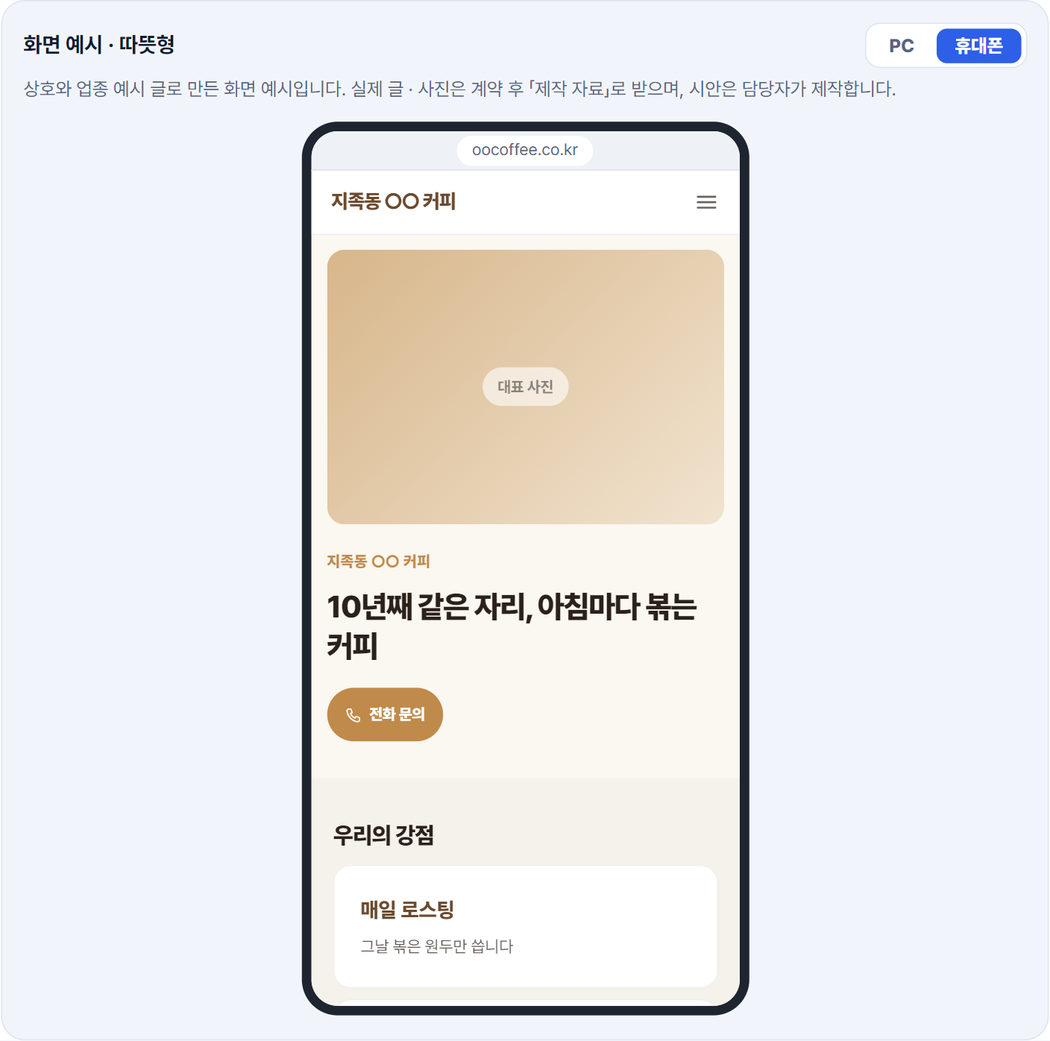
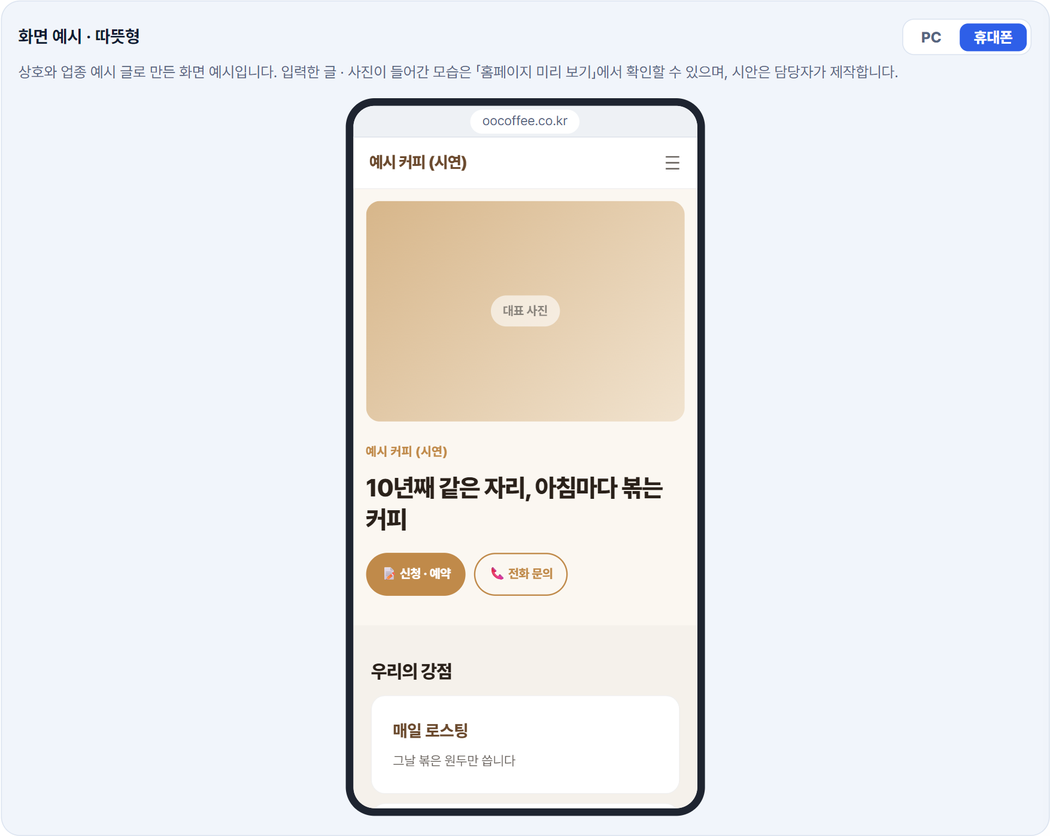
/web/ — 새 신청서(기능만 고르고 디자인 · 도메인은 제작 자료)에 맞춰 문구 · 캡처 (10/18)
- 신청부터 관리까지 01: 「기능 · 디자인 · 도메인을 고르면」 → 「기능을 고르면」
- 04: 제작 자료로 글 · 연락 정보 · 디자인 · 로고 · 사진과 홈페이지 주소 · 오픈 시기, 더 필요한 내용은 담당자가 같은 화면에서 요청
- 가격 ③ 도메인: 「신청 시 선택」 → 「계약 후 「제작 자료」에서 선택」
- 기준일 「자료를 모두 받은 날(담당자가 요청한 자료 포함)부터」 — 05 · 가격 ③ · FAQ Q3 (제작 기간 그래프 짧은 표시는 그대로)
- #easy 오른쪽 캡처 alt 「제작 자료에서 고른 분위기로」, 신청서 문구 통일 TODO 주석 지움
- 캡처 2장 — 신청서 · 제작 자료 미리보기 파일(시연용 「예시 커피 (시연)」, 실제 고객 정보 없음, 10/17 20:58 판)에서
  apply-quote 1295×728 (요금 방식 · 12개월 약정 · 예상 금액) · apply-preview 1050×836 (따뜻형 · 휴대폰). width/height · 칸 바탕색 맞춤, README 갱신

diff --git a/web/index.html b/web/index.html
@@ -1045,11 +1045,11 @@ main{overflow-x:clip}
     <!-- 화면 캡처 2장 (2026-10-15) — 그림 전체가 보이게(object-fit:contain), 남는 곳은 캡처의 바탕색으로 채움 -->
     <div class="shots">
       <figure class="shot glass rv">
-        <div class="slot solid" data-slot style="--shot-bg:#ECF0F6;--shot-pos:center top"><img src="img/apply-quote.png" alt="신청서에서 요금 방식을 고르면 예상 금액이 바로 계산되는 화면" width="1295" height="663" loading="lazy" decoding="async"></div>
+        <div class="slot solid" data-slot style="--shot-bg:#FDFDFE;--shot-pos:center top"><img src="img/apply-quote.png" alt="신청서에서 요금 방식을 고르면 예상 금액이 바로 계산되는 화면" width="1295" height="728" loading="lazy" decoding="async"></div>
         <figcaption>신청서 · 예상 금액</figcaption>
       </figure>
       <figure class="shot glass rv">
-        <div class="slot solid" data-slot style="--shot-bg:#F1F5FB"><img src="img/apply-preview.png" alt="신청서에서 고른 분위기로 홈페이지 화면 예시를 미리 보는 화면" width="1050" height="1041" loading="lazy" decoding="async"></div>
+        <div class="slot solid" data-slot style="--shot-bg:#F1F5FB"><img src="img/apply-preview.png" alt="제작 자료에서 고른 분위기로 홈페이지 화면 예시를 미리 보는 화면" width="1050" height="836" loading="lazy" decoding="async"></div>
         <figcaption>제작 자료 · 홈페이지 미리 보기</figcaption>
       </figure>
     </div>
@@ -1114,10 +1114,9 @@ main{overflow-x:clip}
     <h3 class="ph3 rv">③ <b>결제 · 계약 안내</b></h3>
     <div class="pinfo rv">
       <p>모든 금액은 부가세 포함입니다. 계약 시에는 제작비만 청구하고, 월 관리비는 오픈일부터 매월 CMS 자동이체로 청구합니다. 약정 기간도 오픈일부터 산정합니다.</p>
-      <!-- TODO: 신청서 문구 통일 남음 — 정가 해지 「다음 납부일 7일 전까지 알림」은 사이트 쪽만 맞춤(2026-10-16). /apply/ 의 같은 문구는 아직 -->
       <p>약정은 6개월부터이며, 정가는 최소 이용 기간이 3개월입니다. 정가 3개월이나 약정 기간 중에 해지하시면 위약금이 있습니다. 자세한 기준은 제작 · 관리 계약서에 따릅니다. 정가는 3개월이 지나면 언제든 해지하실 수 있습니다. 해지를 원하시면 다음 납부일 7일 전까지 알려 주십시오. 해지하면 홈페이지를 닫습니다. 유료 도메인은 고객 명의라 해지 후에도 고객 소유이며, 무료 주소는 사라집니다.</p>
-      <p>모든 홈페이지에 모바일 화면 대응과 네이버 · 구글 검색 등록이 포함됩니다. 시안 1개와 제작 중 수정 5회를 제공합니다. 기본 홈페이지는 자료를 모두 받은 날부터 영업일 3일 안에 완성본을 전달하며, 추가 기능이 있으면 견적서에 일정을 적어 드립니다. 환불 기준은 견적서와 계약서에 명시합니다.</p>
-      <p>유료 도메인은 고객 부담이며, 비용은 등록 회사와 주소 종류에 따라 다릅니다(연 1~2만원을 넘을 수 있습니다). 사용 여부는 신청 시 선택하실 수 있으며, 도메인은 고객 소유가 됩니다. 무료 주소는 비용이 없지만 해지하면 주소가 사라집니다.</p>
+      <p>모든 홈페이지에 모바일 화면 대응과 네이버 · 구글 검색 등록이 포함됩니다. 시안 1개와 제작 중 수정 5회를 제공합니다. 기본 홈페이지는 자료를 모두 받은 날(담당자가 요청한 자료 포함)부터 영업일 3일 안에 완성본을 전달하며, 추가 기능이 있으면 견적서에 일정을 적어 드립니다. 환불 기준은 견적서와 계약서에 명시합니다.</p>
+      <p>유료 도메인은 고객 부담이며, 비용은 등록 회사와 주소 종류에 따라 다릅니다(연 1~2만원을 넘을 수 있습니다). 사용 여부는 계약 후 「제작 자료」에서 선택하실 수 있으며, 도메인은 고객 소유가 됩니다. 무료 주소는 비용이 없지만 해지하면 주소가 사라집니다.</p>
     </div>
     <p class="plinks rv">
       <a class="btn btn-g" href="/payment/">결제 시점과 환불 기준 보기</a>
@@ -1182,11 +1181,11 @@ main{overflow-x:clip}
       <h2 class="ttl" id="process-h"><span class="l">신청부터</span> <span class="b"><span class="ico-end">관리까지<img class="sec-ico" src="img/icon-clock.png" alt="" width="320" height="289" loading="lazy" decoding="async"></span></span></h2>
     </div>
     <ol class="steps">
-      <li class="step rv"><span class="no">01</span><h3>신청서 작성</h3><p>기능 · 디자인 · 도메인을 고르면 예상 금액이 자동으로 계산됩니다.</p></li>
+      <li class="step rv"><span class="no">01</span><h3>신청서 작성</h3><p>기능을 고르면 예상 금액이 자동으로 계산됩니다.</p></li>
       <li class="step rv"><span class="no">02</span><h3>연락 · 견적</h3><p>담당자 배정 후 1~2영업일 안에 연락하고 견적서를 보냅니다. 최종 금액은 견적서로 확정합니다.</p></li>
       <li class="step rv"><span class="no">03</span><h3>계약 · 입금</h3><p>계약서에 서명하고 제작비를 입금합니다.</p></li>
-      <li class="step rv"><span class="no">04</span><h3>제작 자료 제출</h3><p>「제작 자료」 링크로 글 · 연락 정보 · 로고 · 사진을 계약 · 입금 후 1주 안에 보냅니다. 입력한 글이 들어간 화면을 미리 보며 작성할 수 있습니다.</p></li>
-      <li class="step rv"><span class="no">05</span><h3>제작</h3><p>기본 홈페이지는 자료를 모두 받은 날부터 영업일 3일 안에 완성본을 전달합니다. 추가 기능이 있으면 견적서의 일정을 따릅니다.</p></li>
+      <li class="step rv"><span class="no">04</span><h3>제작 자료 제출</h3><p>「제작 자료」 링크로 글 · 연락 정보 · 디자인 · 로고 · 사진과 홈페이지 주소 · 오픈 시기를 계약 · 입금 후 1주 안에 보냅니다. 입력한 글이 들어간 화면을 미리 보며 쓸 수 있고, 더 필요한 내용은 담당자가 같은 화면에서 요청합니다.</p></li>
+      <li class="step rv"><span class="no">05</span><h3>제작</h3><p>기본 홈페이지는 자료를 모두 받은 날(담당자가 요청한 자료 포함)부터 영업일 3일 안에 완성본을 전달합니다. 추가 기능이 있으면 견적서의 일정을 따릅니다.</p></li>
       <li class="step rv"><span class="no">06</span><h3>수정 · 오픈</h3><p>완성본을 보시고 수정 5회 안에서 다듬은 뒤 오픈합니다.</p></li>
       <li class="step rv"><span class="no">07</span><h3>매월 관리</h3><p>오픈일부터 월 관리비가 CMS 자동이체로 청구되고, 작은 수정 · 백업 · 장애 대응이 이어집니다.</p></li>
     </ol>
@@ -1205,7 +1204,7 @@ main{overflow-x:clip}
       <details class="rv"><summary><span class="q">Q2</span>상담과 견적에도 비용이 드나요?<span class="pm" aria-hidden="true"></span></summary>
         <p class="a">상담과 견적은 무료입니다. 최종 금액은 견적서로 확정합니다.</p></details>
       <details class="rv"><summary><span class="q">Q3</span>언제 받아볼 수 있나요?<span class="pm" aria-hidden="true"></span></summary>
-        <p class="a">기본 홈페이지는 자료를 모두 받은 날부터 영업일 3일 안에 완성본을 전달합니다. 추가 기능이 있으면 견적서에 일정을 적어 드리며, 완성본을 보신 뒤 수정 5회 안에서 다듬어 오픈합니다.</p></details>
+        <p class="a">기본 홈페이지는 자료를 모두 받은 날(담당자가 요청한 자료 포함)부터 영업일 3일 안에 완성본을 전달합니다. 추가 기능이 있으면 견적서에 일정을 적어 드리며, 완성본을 보신 뒤 수정 5회 안에서 다듬어 오픈합니다.</p></details>
       <details class="rv"><summary><span class="q">Q4</span>글은 직접 써야 하나요?<span class="pm" aria-hidden="true"></span></summary>
         <p class="a">보내 주신 글을 그대로 사용하고 맞춤법만 다듬습니다. 제작 자료 화면에서 문장별로 나눠 쓰기, 업종별 예시, 미리 보기를 이용할 수 있습니다.</p></details>
       <!-- 🔴 사진 받는 카카오톡 채널 이름은 쓰지 않습니다 ([확정 전]) -->

diff --git a/web/img/README.md b/web/img/README.md
@@ -9,13 +9,13 @@
 ## 넣은 그림 (2026-10-15)
 
 전도사님이 준 그림을 가공했습니다(AI 그림 3장 · 사진 1장 · 신청서 화면 캡처 — 미리 보기는 로컬 신청서에서 다시 찍음). **원본은 저장소 밖** `intomarketing_web/` 폴더에 있습니다
-(`src-ring.png` · `src-icons.png` · `src-store.png` · `src-hero-photo.webp` · `src-apply-quote.png` · `src-apply-preview.png` · `src-apply-preview-warm.png`). 가공 스크립트도 같은 폴더의 `img-tools/` 에 있습니다.
+(`src-ring.png` · `src-icons.png` · `src-store.png` · `src-hero-photo.webp` · `src-apply-quote.png` · `src-apply-preview.png` · `src-apply-preview-warm.png` · 새 신청서 판 `src-apply-quote-v2.png` · `src-apply-preview-v2.png`). 가공 스크립트도 같은 폴더의 `img-tools/` 에 있습니다.
 
 | 파일 이름 | 원본 | 가공 | 쓰는 곳 |
 |---|---|---|---|
 | `hero-photo.jpg` | `src-hero-photo.webp` 노트북 · 태블릿 사진 | 원본 크기 그대로(1030×682, 키우지 않음) · JPG 품질 80 · 84KB. 화면에서 `object-fit:cover`, 보이는 중심 62% 50% (키보드와 태블릿 그래프가 함께 보이게) | 히어로 오른쪽 사진 · alt 「노트북과 그래프가 띄워진 태블릿」 |
-| `apply-quote.png` | `src-apply-quote.png` 신청서 예상 금액 화면 | 맨 위 진행 막대 줄(번호 1~7 · 남은 항목 · 다음 항목 · 임시 저장) 잘라 냄 · 1295×663 · 131KB | 신청부터 쉽게 (#easy) 왼쪽 캡처 · 그림 전체가 보이게(contain), 남는 곳은 캡처 바탕색 · 늦게 불러오기 |
-| `apply-preview.png` | `src-apply-preview-warm.png` 신청서 「화면 예시」 패널 (2026-10-16 다시 찍음) | 신청서에서 업종 「카페·음식점」 · 분위기 「따뜻형」 · 휴대폰 보기로 고른 뒤 패널만 2배 해상도로 캡처, 아래 「예상 금액」 막대는 캡처할 때 숨김 · 폭 1050px 로 줄임 · 1050×1041 · 143KB (예전 「신뢰형」 캡처의 원본 `src-apply-preview.png` 는 남겨 둠) | #easy 오른쪽 캡처 · 그림 전체가 보이게(contain) · 늦게 불러오기 |
+| `apply-quote.png` | `src-apply-quote-v2.png` 새 신청서(한 질문씩 넘기는 화면) STEP 3 「기능 · 요금」의 「요금 방식」 쪽 (2026-10-18 다시 찍음) | 신청서 미리보기 파일(서버를 거치지 않는 시연용)에서 「12개월 약정」을 고른 뒤 1440px 화면 · 2배 해상도로 캡처. 맨 위 진행 줄(단계 번호 · 진행 막대 · 임시 저장)은 잘라 냄, 오른쪽 「예상 금액」 상자 · 요금 방식별 표까지 · 폭 1295px 로 줄임 · 1295×728 · 256색(octree, 별표 빨강 그대로) 55KB (예전 판 원본 `src-apply-quote.png` 는 남겨 둠) | 신청부터 쉽게 (#easy) 왼쪽 캡처 · 그림 전체가 보이게(contain), 남는 곳은 캡처 바탕색(#FDFDFE) · 늦게 불러오기 |
+| `apply-preview.png` | `src-apply-preview-v2.png` 「제작 자료」 STEP 3 「디자인」 첫 쪽의 「화면 예시」 패널 (2026-10-18 다시 찍음) | 제작 자료 미리보기 파일의 시연용 신청 건(가상의 카페 「예시 커피 (시연)」 · 실제 고객 정보 없음)에서 분위기 「따뜻형」 · 휴대폰 보기로 고른 뒤 패널만 2배 해상도로 캡처, 아래 고정 막대는 숨김 · 폭 1050px 로 줄임 · 1050×836 · 136KB (예전 원본 `src-apply-preview-warm.png` · `src-apply-preview.png` 는 남겨 둠) | #easy 오른쪽 캡처 · 그림 전체가 보이게(contain) · 늦게 불러오기 |
 | `deco-hero-top.png` | `src-ring.png` 고리 | 흰 배경 · 가운데 구멍 · 바닥 그림자 · 반짝이 제거, design-main.png 리본 색(#1B54BE~#B4D1EB)으로 다시 칠함, 시계 방향으로 기울임 | 히어로 오른쪽 위 (위 · 오른쪽이 잘림) |
 | `deco-hero-bottom.png` | 같은 고리 | 위와 같음 + 좌우 뒤집고 반대로 돌림 | 히어로 왼쪽 아래 (더 작게, 왼쪽이 반쯤 잘림) |
 | `deco-problem.png` | `src-store.png` 점토 가게 | 흰 배경 · 바닥 그림자 · 반짝이 · 처마 밑 · 꽃 사이 틈 제거, 가게 둘레에 맞춰 자름, 색 그대로, 간판은 비워 둠 | 2번 섹션 카드 A안(원래 색) — 카드 class `shop-orig` 일 때 |
